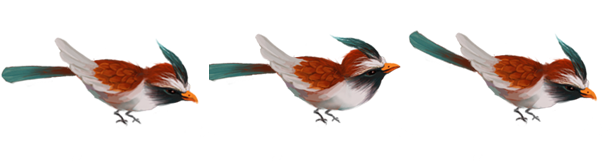
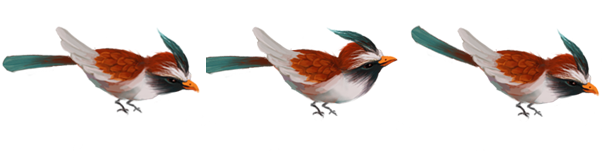
updated

Changed region(s): [[0.0, 0.1553, 0.6578, 0.7764], [0.6578, 0.1553, 1.0, 0.7764], [0.2392, 0.1863, 0.2691, 0.2174]]

diff --git a/wedding/css/page-b.css b/wedding/css/page-b.css
@@ -179,6 +179,8 @@
 .bird-stop{
     background: url('../image/bird_stop.png') no-repeat;
     background-size: 300% auto;
+    width: 3.4rem;
+    height: 3.4rem;
     -webkit-animation:birdstop 1s steps(3) infinite;
     -moz-animation:birdstop 1s steps(3) infinite;
     -ms-animation:birdstop 1s steps(3) infinite;
@@ -240,19 +242,19 @@
 /*小鸟落下*/
 @-webkit-keyframes bird {
     from {background-position: 0% 0%;}
-    to {background-position: 100% 0%;}
+    to {background-position: 133% 0%;}
 }
 @-moz-keyframes bird {
     from {background-position: 0% 0%;}
-    to {background-position: 100% 0%;}
+    to {background-position: 133% 0%;}
 }
 @-ms-keyframes bird {
     from {background-position: 0% 0%;}
-    to {background-position: 100% 0%;}
+    to {background-position: 133% 0%;}
 }
 @-o-keyframes bird {
     from {background-position: 0% 0%;}
-    to {background-position: 100% 0%;}
+    to {background-position: 133% 0%;}
 }
 @keyframes bird {
     from {background-position: 0% 0%;}
@@ -261,19 +263,19 @@
 /*小鸟啄心*/
 @-webkit-keyframes birdstop {
     from {background-position: 0% 0%;}
-    to {background-position: 100% 0%;}
+    to {background-position: 150% 0%;}
 }
 @-moz-keyframes birdstop {
     from {background-position: 0% 0%;}
-    to {background-position: 100% 0%;}
+    to {background-position: 150% 0%;}
 }
 @-ms-keyframes birdstop {
     from {background-position: 0% 0%;}
-    to {background-position: 100% 0%;}
+    to {background-position: 150% 0%;}
 }
 @-o-keyframes birdstop {
     from {background-position: 0% 0%;}
-    to {background-position: 100% 0%;}
+    to {background-position: 150% 0%;}
 }
 @keyframes birdstop {
     from {background-position: 0% 0%;}

diff --git a/wedding/css/common.css b/wedding/css/common.css
@@ -28,8 +28,8 @@ body{
     position: absolute;
     top: .5rem;
     right: 2.5rem;
-    width: 1.6rem;
-    height: 1.6rem;
+    width: 1.55rem;
+    height: 1.55rem;
     background: url('../image/invitation.png') no-repeat;
     background-size: 100% 100%;
     z-index: 1000;
